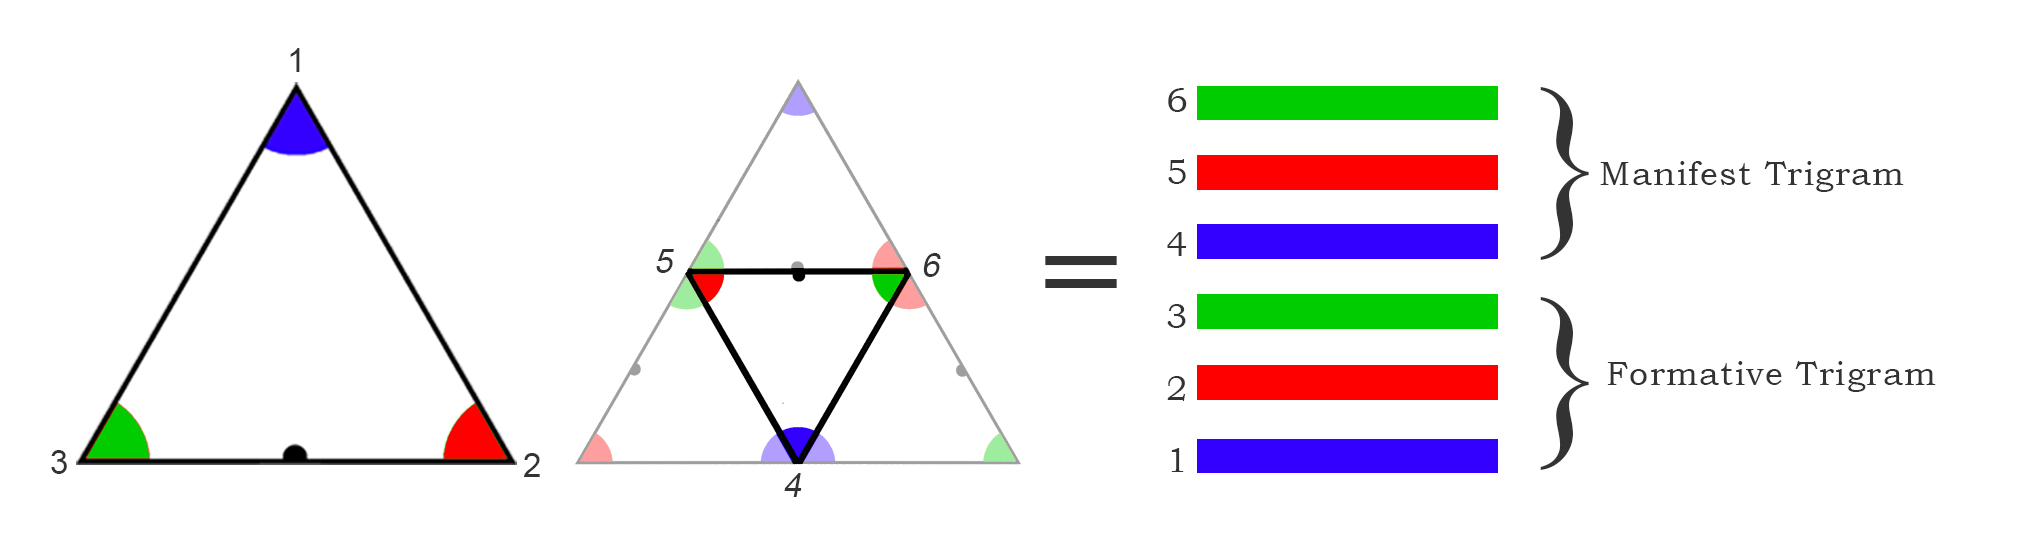
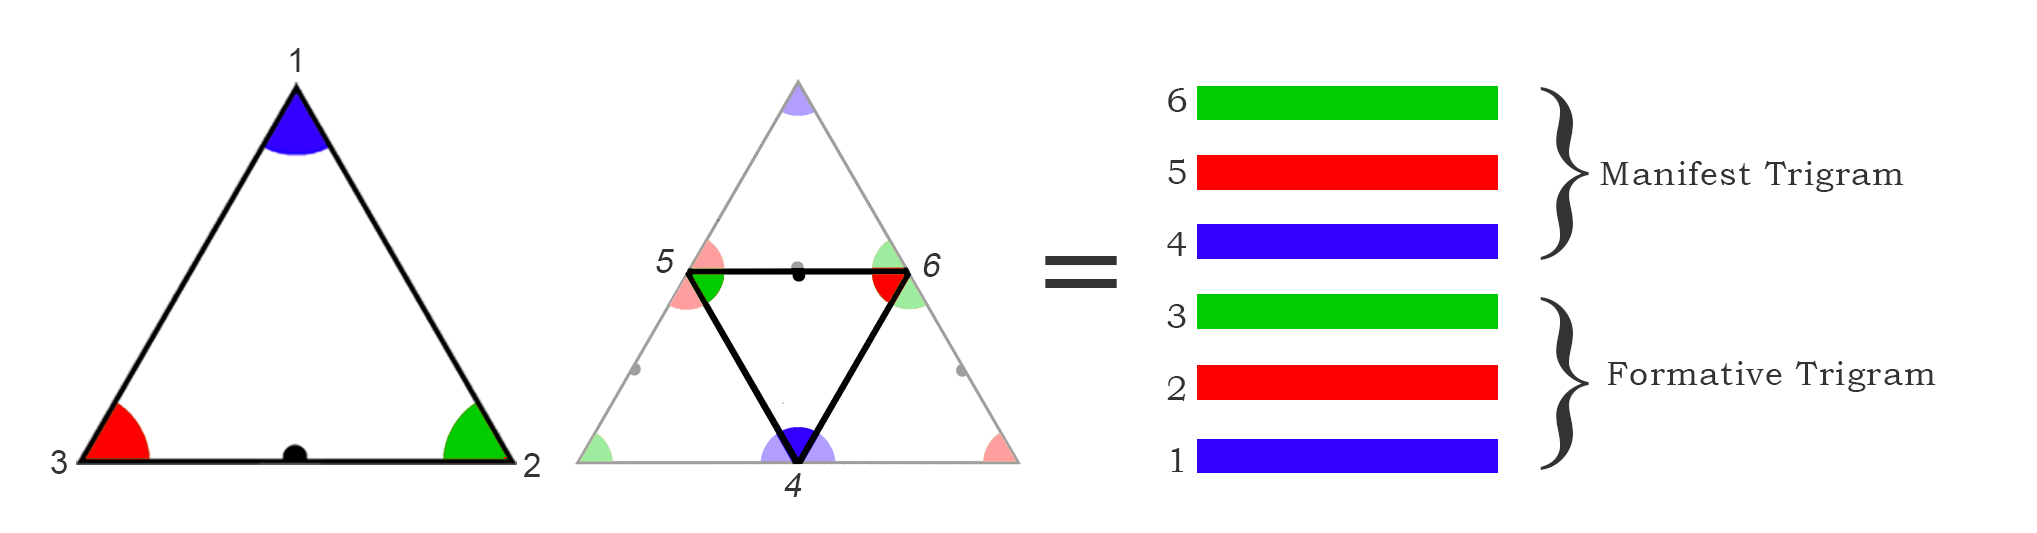
trigram color reversal tweek-

diff --git a/docs/_layouts/default.html b/docs/_layouts/default.html
@@ -36,7 +36,7 @@
           <li><a target="_blank" href="https://mega.nz/#F!NiBwjQiA!VYOo9TlGW9u060-V1LQ0_w">Download <strong>ePub</strong></a></li>
           <li><a target="_blank" href="https://mega.nz/#F!NiBwjQiA!VYOo9TlGW9u060-V1LQ0_w">Download <strong>HTML</strong></a></li>
         </ul>
-              current version: Wed 30 Oct 2019 10:50:52 PM EDT v.1.2.7
+              current version: Thu 31 Oct 2019 01:21:01 AM EDT v.1.2.9
 
 <!--
         ZIP and TAR downloads include 20+ megs of webpages, scripts, images and other material. 

diff --git a/README.md b/README.md
@@ -1,7 +1,7 @@
 
 see <https://tholonia.github.io/the-book/>
 
-DRAFT - Version Alpha {!Wed 30 Oct 2019 10:50:52 PM EDT v.1.2.7}
+DRAFT - Version Alpha {!Thu 31 Oct 2019 01:21:01 AM EDT v.1.2.9}
 
 Tholonia: The Existential Mechanics of Awareness
 Copyright © 2019 Duncan Stroud
